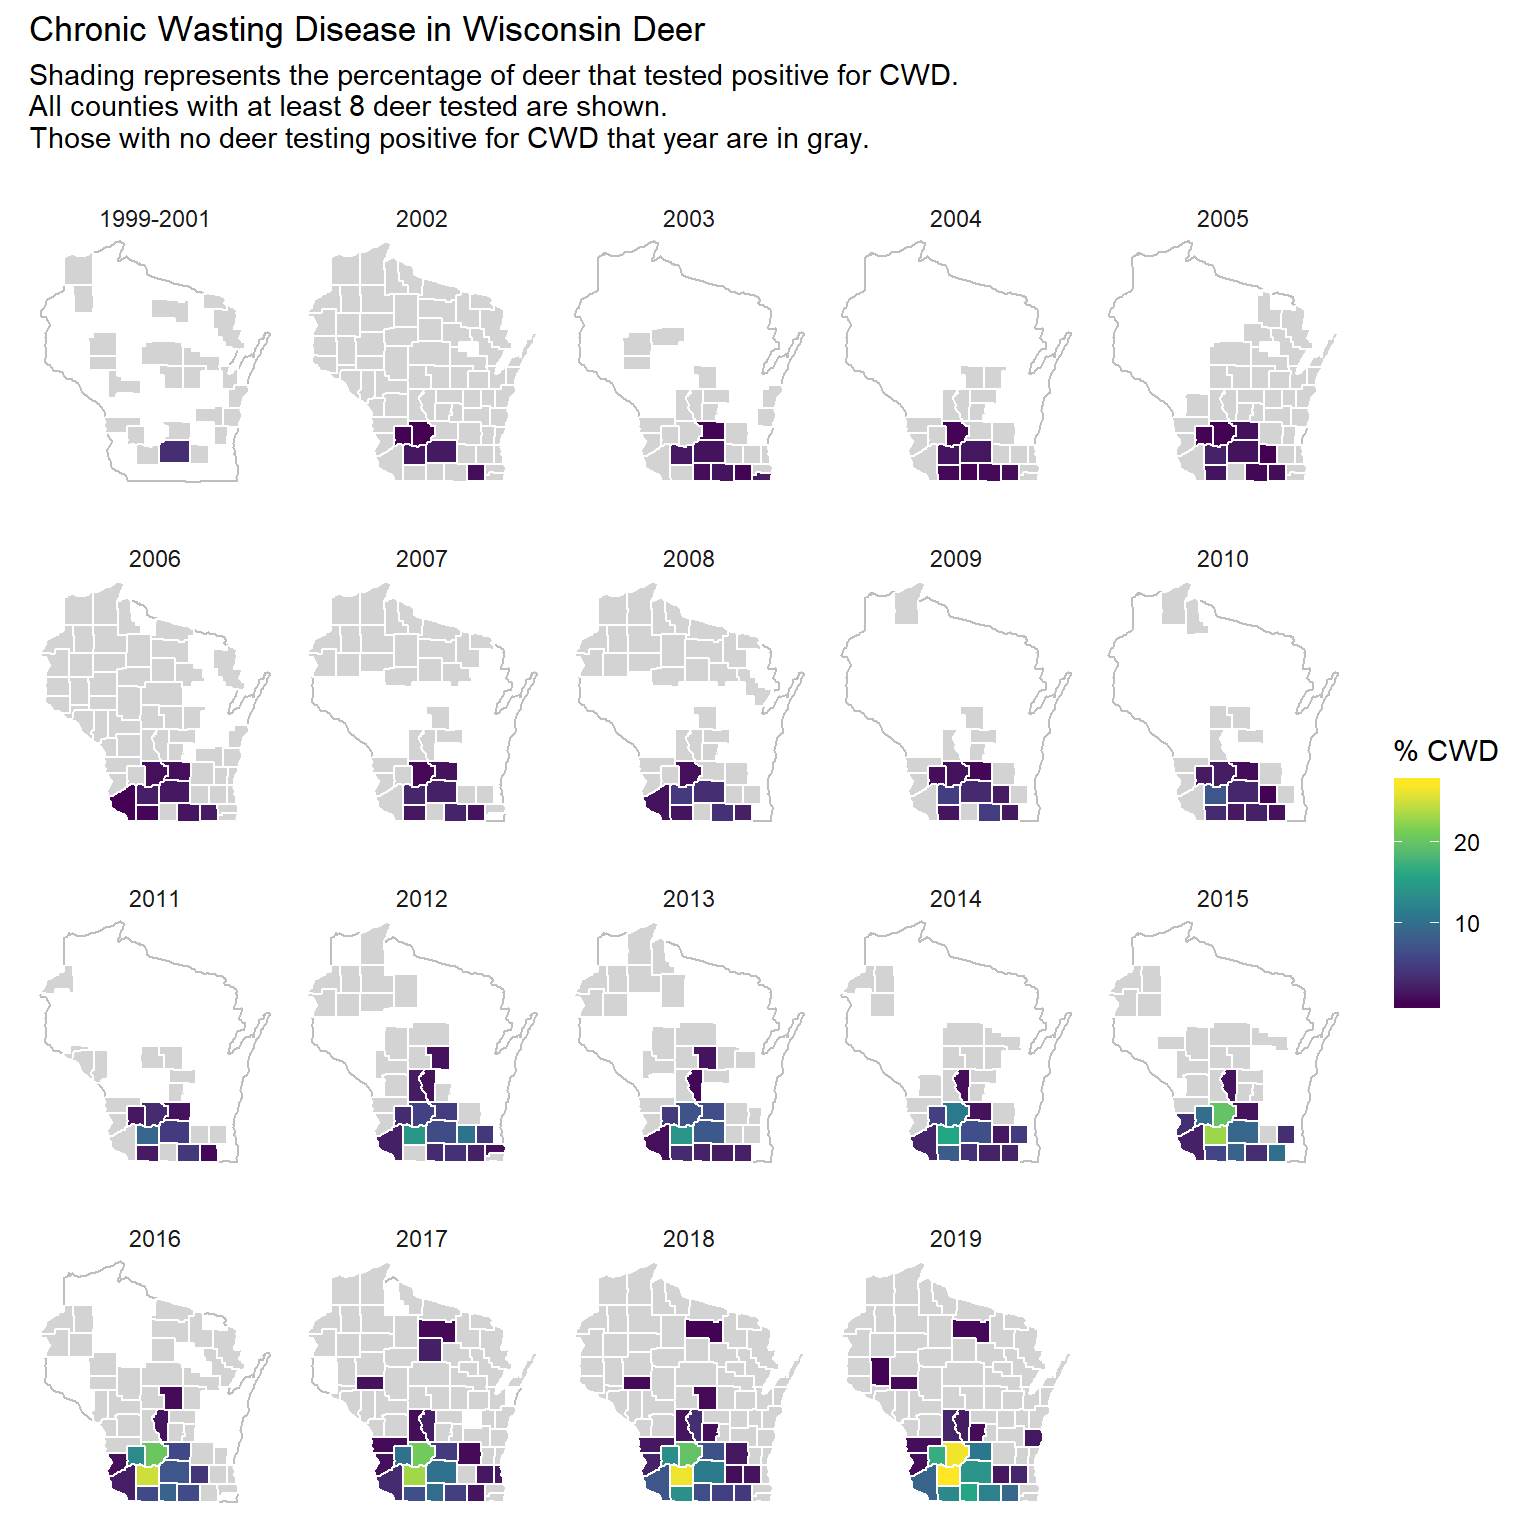
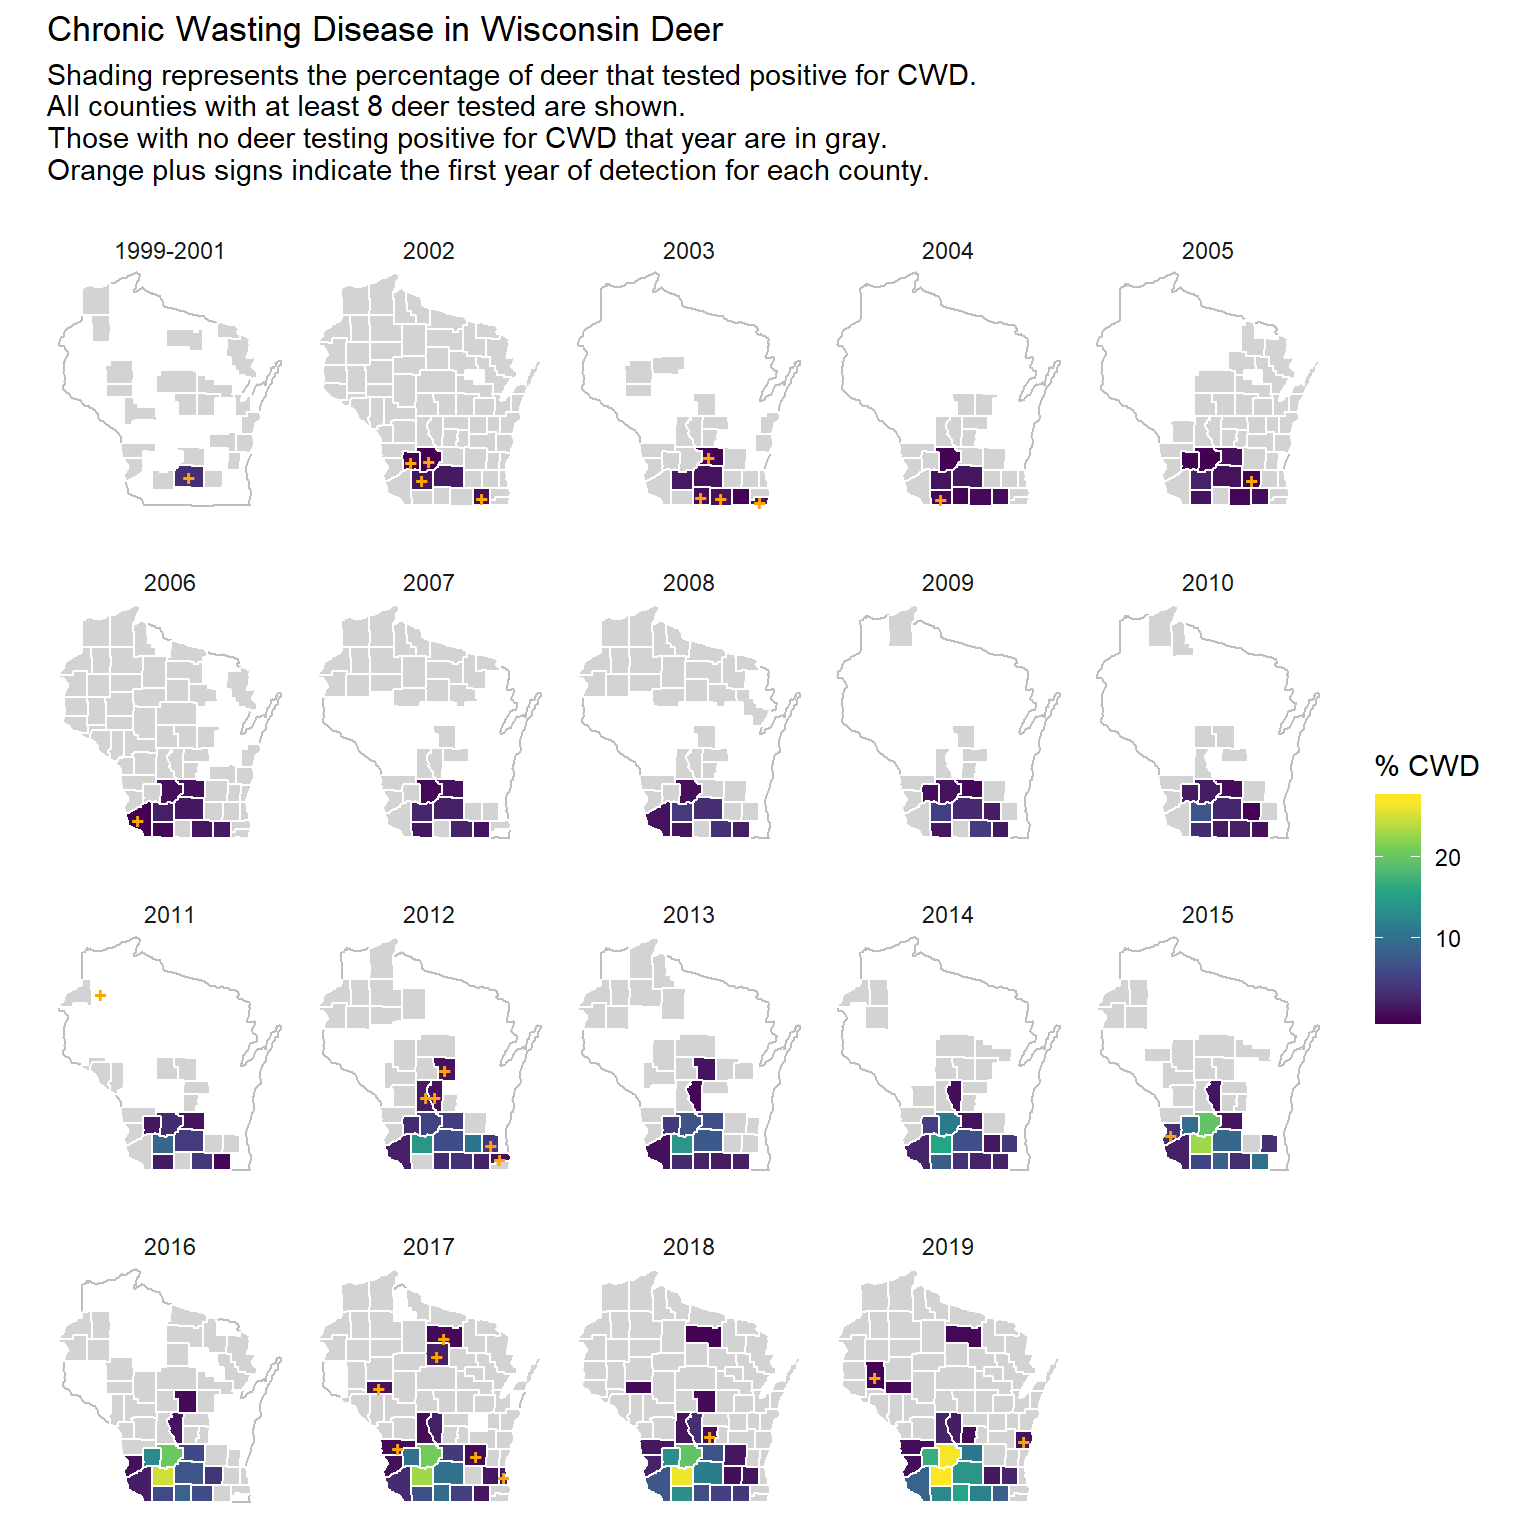
cwd plus signs

diff --git a/content/post/2019-12-24-chronic-wasting-disease-in-wisconsin-deer.html b/content/post/2019-12-24-chronic-wasting-disease-in-wisconsin-deer.html
@@ -33,7 +33,7 @@ tags:
 <p>Since 1999, <strong>28</strong> of 72 Wisconsin counties have tested positive for CWD, including <strong>2</strong> counties that tested positive for the first time in 2019: <strong>Sheboygan, Dunn</strong>.</p>
 <p><br></p>
 <div id="htmlwidget-1" style="width:100%;height:auto;" class="datatables html-widget"></div>
-<script type="application/json" data-for="htmlwidget-1">{"x":{"filter":"none","data":[["1","2","3","4","5","6","7","8","9","10","11","12","13","14","15","16","17","18","19","20","21","22","23","24","25","26","27","28","29","30","31","32","33","34","35","36","37","38","39","40","41","42","43","44","45","46","47","48","49","50","51","52","53","54","55","56","57","58","59","60","61","62","63","64","65","66","67","68","69","70","71","72"],["Iowa","Sauk","Richland","Dane","Lafayette","Columbia","Grant","Rock","Green","Walworth","Adams","Crawford","Juneau","Vernon","Waukesha","Eau Claire","Milwaukee","Portage","Jefferson","Marquette","Dodge","Oneida","Sheboygan","Kenosha","Racine","Dunn","Lincoln","Washburn","Ashland","Barron","Bayfield","Brown","Buffalo","Burnett","Calumet","Chippewa","Clark","Door","Douglas","Florence","Fond du Lac","Forest","Green Lake","Iron","Jackson","Kewaunee","La Crosse","Langlade","Manitowoc","Marathon","Marinette","Menominee","Monroe","Oconto","Outagamie","Ozaukee","Pepin","Pierce","Polk","Price","Rusk","Sawyer","Shawano","St Croix","Taylor","Trempealeau","Vilas","Washington","Waupaca","Waushara","Winnebago","Wood"],[2002,2002,2002,2000,2004,2003,2006,2003,2003,2002,2012,2015,2012,2017,2012,2017,2017,2012,2005,2018,2017,2017,2019,2003,2012,2019,2017,2011,null,null,null,null,null,null,null,null,null,null,null,null,null,null,null,null,null,null,null,null,null,null,null,null,null,null,null,null,null,null,null,null,null,null,null,null,null,null,null,null,null,null,null,null],[48603,18284,13994,30215,2983,6323,6056,8439,3458,7029,3498,2183,2780,3792,4089,1673,387,3377,7470,1750,2423,2666,1154,1157,1342,1527,1787,3215,705,1508,1522,335,2081,1983,197,1177,1703,853,1113,982,524,599,888,597,1912,436,1175,1301,946,2582,1641,44,2563,1292,683,296,487,701,1559,1409,1268,1423,2118,822,1152,1447,1792,880,1730,1744,359,1556],[3028,948,673,991,81,147,130,166,62,87,35,16,17,20,14,5,1,7,15,3,4,4,1,1,1,1,1,1,0,0,0,0,0,0,0,0,0,0,0,0,0,0,0,0,0,0,0,0,0,0,0,0,0,0,0,0,0,0,0,0,0,0,0,0,0,0,0,0,0,0,0,0],[6.23006810279201,5.18486108072632,4.80920394454766,3.27982790004964,2.7153871940999,2.32484580104381,2.14663143989432,1.96705770825927,1.79294389820706,1.23772940674349,1.00057175528874,0.732936326156665,0.611510791366906,0.527426160337553,0.342382000489117,0.298864315600717,0.258397932816537,0.207284572105419,0.200803212851406,0.171428571428571,0.165084605860503,0.150037509377344,0.0866551126516465,0.0864304235090752,0.0745156482861401,0.0654878847413229,0.0559597090095132,0.031104199066874,0,0,0,0,0,0,0,0,0,0,0,0,0,0,0,0,0,0,0,0,0,0,0,0,0,0,0,0,0,0,0,0,0,0,0,0,0,0,0,0,0,0,0,0],[1352,917,1351,998,194,555,642,126,144,98,344,423,353,747,193,360,40,375,144,346,156,417,73,21,40,400,266,193,35,168,171,25,375,199,13,205,211,17,135,102,34,45,109,61,176,14,160,119,36,378,209,8,425,126,35,53,73,46,211,242,130,147,215,135,91,252,147,118,189,106,19,189],[367,244,230,142,25,60,57,15,23,9,6,3,9,6,5,2,0,0,2,2,0,2,1,0,0,1,0,0,0,0,0,0,0,0,0,0,0,0,0,0,0,0,0,0,0,0,0,0,0,0,0,0,0,0,0,0,0,0,0,0,0,0,0,0,0,0,0,0,0,0,0,0],[27.1449704142012,26.608505997819,17.0244263508512,14.2284569138277,12.8865979381443,10.8108108108108,8.8785046728972,11.9047619047619,15.9722222222222,9.18367346938776,1.74418604651163,0.709219858156028,2.54957507082153,0.803212851405622,2.59067357512953,0.555555555555556,0,0,1.38888888888889,0.578034682080925,0,0.479616306954436,1.36986301369863,0,0,0.25,0,0,0,0,0,0,0,0,0,0,0,0,0,0,0,0,0,0,0,0,0,0,0,0,0,0,0,0,0,0,0,0,0,0,0,0,0,0,0,0,0,0,0,0,0,0]],"container":"<table class=\"display\">\n  <thead>\n    <tr>\n      <th> <\/th>\n      <th>County<\/th>\n      <th>First.Detected<\/th>\n      <th>Analyzed.Total<\/th>\n      <th>Positive.Total<\/th>\n      <th>Pos.pct.Total<\/th>\n      <th>Analyzed.2019<\/th>\n      <th>Positive.2019<\/th>\n      <th>Pos.pct.2019<\/th>\n    <\/tr>\n  <\/thead>\n<\/table>","options":{"scrollX":"700px","columnDefs":[{"className":"dt-right","targets":[2,3,4,5,6,7,8]},{"orderable":false,"targets":0}],"order":[],"autoWidth":false,"orderClasses":false,"rowCallback":"function(row, data) {\nDTWidget.formatCurrency(this, row, data, 3, \"\", 0, 3, \",\", \".\", true);\nDTWidget.formatCurrency(this, row, data, 4, \"\", 0, 3, \",\", \".\", true);\nDTWidget.formatCurrency(this, row, data, 6, \"\", 0, 3, \",\", \".\", true);\nDTWidget.formatCurrency(this, row, data, 7, \"\", 0, 3, \",\", \".\", true);\nDTWidget.formatRound(this, row, data, 5, 1, 3, \",\", \".\");\nDTWidget.formatRound(this, row, data, 8, 1, 3, \",\", \".\");\n}"}},"evals":["options.rowCallback"],"jsHooks":[]}</script>
+<script type="application/json" data-for="htmlwidget-1">{"x":{"filter":"none","data":[["1","2","3","4","5","6","7","8","9","10","11","12","13","14","15","16","17","18","19","20","21","22","23","24","25","26","27","28","29","30","31","32","33","34","35","36","37","38","39","40","41","42","43","44","45","46","47","48","49","50","51","52","53","54","55","56","57","58","59","60","61","62","63","64","65","66","67","68","69","70","71","72"],["Iowa","Sauk","Richland","Dane","Lafayette","Columbia","Grant","Rock","Green","Walworth","Adams","Crawford","Juneau","Vernon","Waukesha","Eau Claire","Milwaukee","Portage","Jefferson","Marquette","Dodge","Oneida","Kenosha","Sheboygan","Racine","Dunn","Lincoln","Washburn","Ashland","Barron","Bayfield","Brown","Buffalo","Burnett","Calumet","Chippewa","Clark","Door","Douglas","Florence","Fond du Lac","Forest","Green Lake","Iron","Jackson","Kewaunee","La Crosse","Langlade","Manitowoc","Marathon","Marinette","Menominee","Monroe","Oconto","Outagamie","Ozaukee","Pepin","Pierce","Polk","Price","Rusk","Sawyer","Shawano","St Croix","Taylor","Trempealeau","Vilas","Washington","Waupaca","Waushara","Winnebago","Wood"],[2002,2002,2002,2000,2004,2003,2006,2003,2003,2002,2012,2015,2012,2017,2012,2017,2017,2012,2005,2018,2017,2017,2003,2019,2012,2019,2017,2011,null,null,null,null,null,null,null,null,null,null,null,null,null,null,null,null,null,null,null,null,null,null,null,null,null,null,null,null,null,null,null,null,null,null,null,null,null,null,null,null,null,null,null,null],[48605,18290,13971,30215,2983,6323,6063,8439,3458,7038,3498,2213,2781,3791,4096,1673,395,3377,7471,1750,2424,2667,1157,1172,1343,1527,1787,3216,705,1509,1524,335,2081,1983,197,1177,1703,855,1113,982,524,599,888,597,1912,439,1175,1303,944,2587,1641,44,2565,1297,683,297,489,701,1559,1430,1268,1438,2120,822,1152,1447,1792,883,1730,1744,359,1556],[3028,951,674,991,81,147,130,166,62,87,35,16,17,20,14,5,1,7,15,3,4,4,1,1,1,1,1,1,0,0,0,0,0,0,0,0,0,0,0,0,0,0,0,0,0,0,0,0,0,0,0,0,0,0,0,0,0,0,0,0,0,0,0,0,0,0,0,0,0,0,0,0],[6.22981174776258,5.19956260251504,4.82427886335982,3.27982790004964,2.7153871940999,2.32484580104381,2.14415305954148,1.96705770825927,1.79294389820706,1.23614663256607,1.00057175528874,0.723000451875282,0.611290902553039,0.527565286204168,0.341796875,0.298864315600717,0.253164556962025,0.207284572105419,0.200776335162629,0.171428571428571,0.165016501650165,0.149981252343457,0.0864304235090752,0.0853242320819113,0.0744601638123604,0.0654878847413229,0.0559597090095132,0.0310945273631841,0,0,0,0,0,0,0,0,0,0,0,0,0,0,0,0,0,0,0,0,0,0,0,0,0,0,0,0,0,0,0,0,0,0,0,0,0,0,0,0,0,0,0,0],[1354,923,1357,998,194,555,649,126,144,107,344,424,354,746,200,360,48,375,145,346,157,418,21,91,41,400,266,194,35,169,173,25,375,199,13,205,211,19,135,102,34,45,109,61,176,17,160,121,34,383,209,8,427,131,35,54,75,46,211,263,130,162,217,135,91,252,147,121,189,106,19,189],[367,247,231,142,25,60,57,15,23,9,6,3,9,6,5,2,0,0,2,2,0,2,0,1,0,1,0,0,0,0,0,0,0,0,0,0,0,0,0,0,0,0,0,0,0,0,0,0,0,0,0,0,0,0,0,0,0,0,0,0,0,0,0,0,0,0,0,0,0,0,0,0],[27.1048744460857,26.7605633802817,17.0228445099484,14.2284569138277,12.8865979381443,10.8108108108108,8.78274268104777,11.9047619047619,15.9722222222222,8.41121495327103,1.74418604651163,0.707547169811321,2.54237288135593,0.804289544235925,2.5,0.555555555555556,0,0,1.37931034482759,0.578034682080925,0,0.478468899521531,0,1.0989010989011,0,0.25,0,0,0,0,0,0,0,0,0,0,0,0,0,0,0,0,0,0,0,0,0,0,0,0,0,0,0,0,0,0,0,0,0,0,0,0,0,0,0,0,0,0,0,0,0,0]],"container":"<table class=\"display\">\n  <thead>\n    <tr>\n      <th> <\/th>\n      <th>County<\/th>\n      <th>First.Detected<\/th>\n      <th>Analyzed.Total<\/th>\n      <th>Positive.Total<\/th>\n      <th>Pos.pct.Total<\/th>\n      <th>Analyzed.2019<\/th>\n      <th>Positive.2019<\/th>\n      <th>Pos.pct.2019<\/th>\n    <\/tr>\n  <\/thead>\n<\/table>","options":{"scrollX":"700px","columnDefs":[{"className":"dt-right","targets":[2,3,4,5,6,7,8]},{"orderable":false,"targets":0}],"order":[],"autoWidth":false,"orderClasses":false,"rowCallback":"function(row, data) {\nDTWidget.formatCurrency(this, row, data, 3, \"\", 0, 3, \",\", \".\", true);\nDTWidget.formatCurrency(this, row, data, 4, \"\", 0, 3, \",\", \".\", true);\nDTWidget.formatCurrency(this, row, data, 6, \"\", 0, 3, \",\", \".\", true);\nDTWidget.formatCurrency(this, row, data, 7, \"\", 0, 3, \",\", \".\", true);\nDTWidget.formatRound(this, row, data, 5, 1, 3, \",\", \".\");\nDTWidget.formatRound(this, row, data, 8, 1, 3, \",\", \".\");\n}"}},"evals":["options.rowCallback"],"jsHooks":[]}</script>
 </div>
 <div id="mapping-the-data" class="section level1">
 <h1>Mapping the data</h1>
